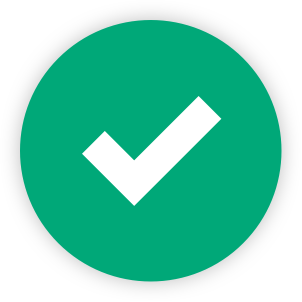
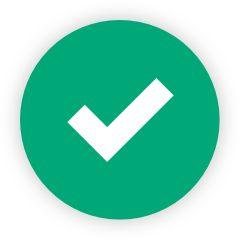
Added confirm image

diff --git a/Realm/Assets/Scripts/PlacementView.cs b/Realm/Assets/Scripts/PlacementView.cs
@@ -4,7 +4,9 @@ using UnityEngine;
 using UnityEngine.UI;
 
 public class PlacementView : MonoBehaviour {
-    
+
+    public GameObject confirmImage;
+
     private GameObject messageTextObj;
     private Text messageText;
     private int stepInProcess = 0;
@@ -24,28 +26,40 @@ public class PlacementView : MonoBehaviour {
 
     public void ProceedSequentially()
     {
+        string anchorString = "Waypost";
+        string targetString = RealmManager.realmManager.activeObject.title;
+
+        if (RealmManager.realmManager.activeObject.rObjectType == RObject.RObjectType.Waypo) {
+            Debug.Log(RealmManager.realmManager.activeObject.rObjectType.ToString());
+            anchorString = "Anchor";
+        }
+
         switch (stepInProcess) {
             case 0:
-                messageText.text = "Step 1: Scan your \"Anchor\" image...";
+                messageText.text = "Step 1: Scan your \"" + anchorString + "\" image...";
                 stepInProcess += 1;
                 break;
             case 1:
                 // This will appear for 2 seconds (maybe 3) when Anchor is found
-                messageText.text = "You are now connected to your Anchor.";
+                confirmImage.SetActive(true);
+                messageText.text = "You are now connected to your " + anchorString + ".";
                 stepInProcess += 1;
                 break;
             case 2:
-                messageText.text = "Step 2: Scan “Waypost [Insert Name]” image";
+                confirmImage.SetActive(false);
+                messageText.text = "Step 2: Scan the “" + targetString + "\" image";
                 stepInProcess += 1;
                 break;
             case 3:
+                confirmImage.SetActive(true);
                 // THIS IS WHERE WE CHANGE THE IMAGE AND "HAS BEEN SET" PROPERTY
                 RObject activeObject = RealmManager.realmManager.activeObject;
                 activeObject.PlaceObject();
-                messageText.text = "Waypost [Insert Name] has been set.";
+                messageText.text =  targetString + " has been set.";
                 stepInProcess += 1;
                 break;
             case 4:
+                confirmImage.SetActive(false);
                 RealmManager.realmManager.anchorExists = true;
                 string toMenu;
                 if (ViewManager.viewManager.navigationHistory.Count == 0) {
@@ -64,6 +78,7 @@ public class PlacementView : MonoBehaviour {
     private void OnDisable()
     {
         stepInProcess = 0;
+        confirmImage.SetActive(false);
         messageTextObj.SetActive(false);
     }
 }

diff --git a/Realm/Assets/Scripts/RealmData.cs b/Realm/Assets/Scripts/RealmData.cs
@@ -7,6 +7,7 @@ using UnityEngine;
 
 public static class RealmData
 {
+    // To erase persistent data: manually change this to "true", run the app, stop the app, change it back to "false".
     public static bool eraseModeActive = false;
 
     public static List<RObject> RObjects; // setup to check if they exist and if they do update RealmManager.realmManager

diff --git a/Realm/Assets/Scripts/MenuButton.cs b/Realm/Assets/Scripts/MenuButton.cs
@@ -41,7 +41,7 @@ public class MenuButton : MonoBehaviour
 
     public void PerformSegueToTarget()
     {
-        ViewManager.viewManager.performSegue(navTarget, menuPanelObject);
         RealmManager.realmManager.RegisterActiveObject(title);
+        ViewManager.viewManager.performSegue(navTarget, menuPanelObject);
     }
 }
